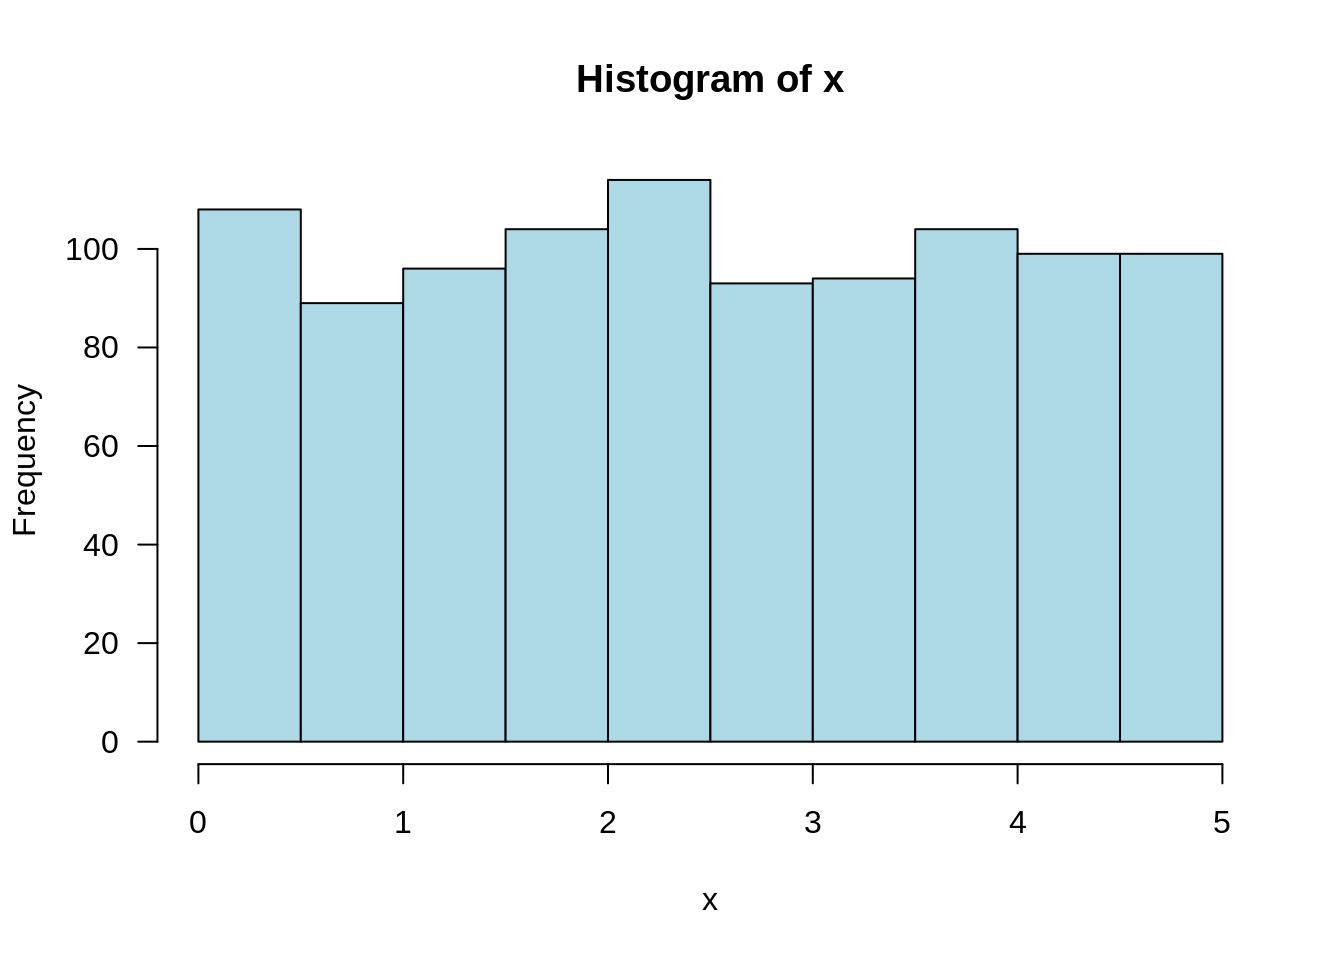
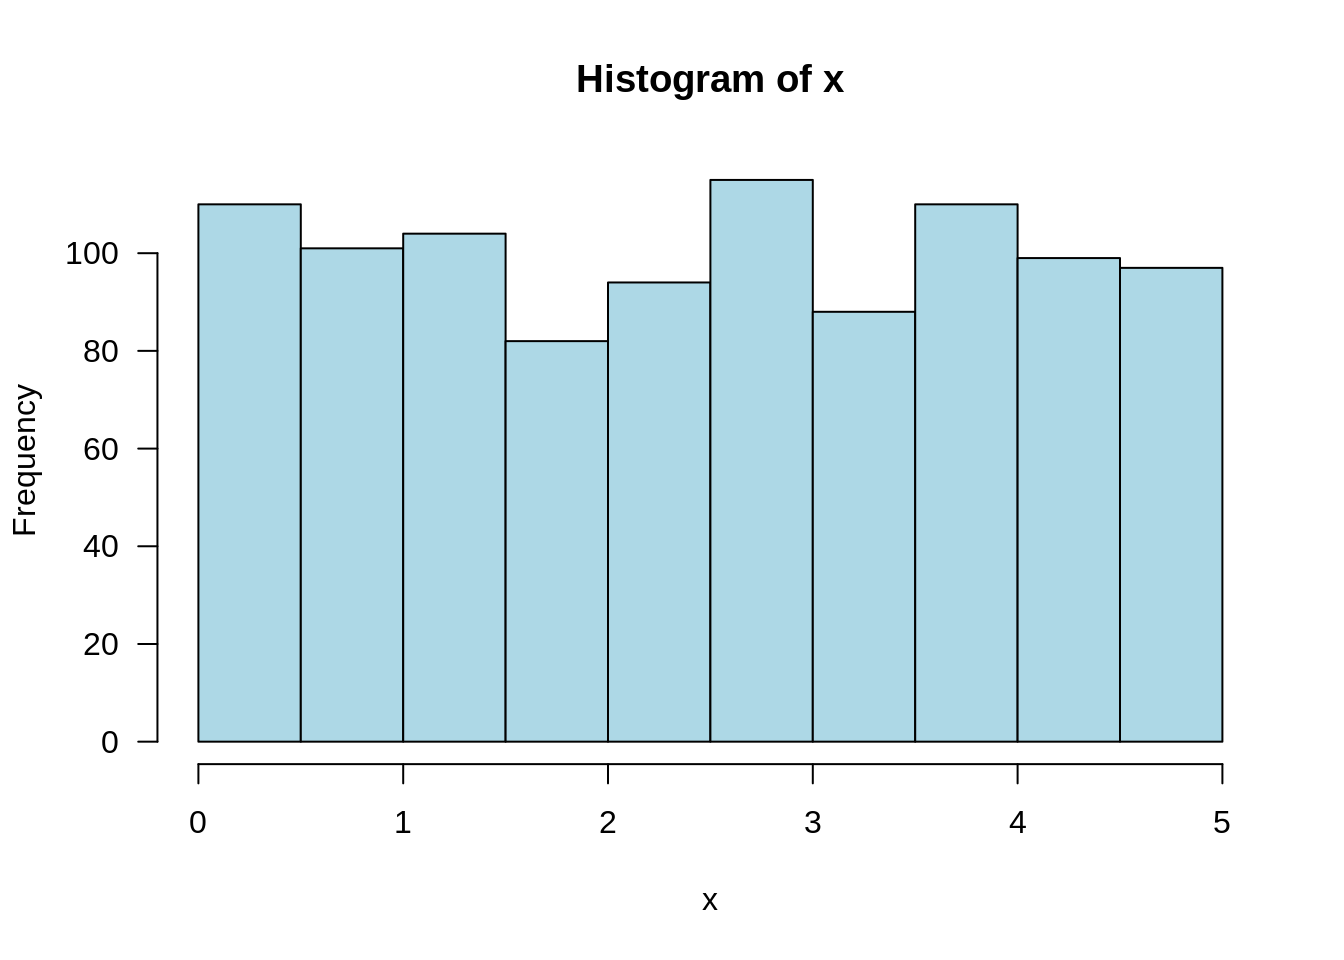
Deploying to gh-pages from @ jtr13/1201@d2c59172a6f13716efd7f6ed6490b5e46e10f73d 🚀

diff --git a/index.html b/index.html
@@ -172,15 +172,14 @@
 <p><a href=""><img src="images/R7.png" style="width:100.0%;height:100.0%"></a></p>
 <p><a href=""><img src="images/R8.png" style="width:100.0%;height:100.0%"></a></p>
 </div>
-<div id="reading-files" class="section level3">
-<h3>
-<span class="header-section-number">0.0.1</span> Reading files<a class="anchor" aria-label="anchor" href="#reading-files"><i class="fas fa-link"></i></a>
+<div id="reading-files" class="section level3 unnumbered">
+<h3>Reading files<a class="anchor" aria-label="anchor" href="#reading-files"><i class="fas fa-link"></i></a>
 </h3>
 <p>First, find out your working directory with:</p>
 <div class="sourceCode" id="cb13"><pre class="downlit sourceCode r">
 <code class="sourceCode R"><span class="fu"><a href="https://rdrr.io/r/base/getwd.html">getwd</a></span><span class="op">(</span><span class="op">)</span></code></pre></div>
 <p><code>[1] "/Users/joycerobbins/1201"</code></p>
-<p>Next, move the file that you wish to read into that directory.</p>
+<p>Next, move the file that you wish to read into that directory. <em>One of the most common problems in reading in files is not having the file in the right place.</em></p>
 <p><code>.rda</code> files</p>
 <div class="sourceCode" id="cb14"><pre class="downlit sourceCode r">
 <code class="sourceCode R"><span class="fu"><a href="https://rdrr.io/r/base/load.html">load</a></span><span class="op">(</span><span class="st">"ex01-14.rda"</span><span class="op">)</span></code></pre></div>
@@ -267,7 +266,7 @@
 <a class="nav-link" href="#creating-graphs-saving-your-work">Creating Graphs, Saving your work</a><ul class="nav navbar-nav">
 <li><a class="nav-link" href="#saving-code-as-an-.r-file">Saving code as an .R file</a></li>
 <li><a class="nav-link" href="#convert-.r-file-to-.html">Convert .R file to .html</a></li>
-<li><a class="nav-link" href="#reading-files"><span class="header-section-number">0.0.1</span> Reading files</a></li>
+<li><a class="nav-link" href="#reading-files">Reading files</a></li>
 </ul>
 </li>
 <li><a class="nav-link" href="#contact">Contact</a></li>

diff --git a/ch.-4-continuous-random-variables-and-probability-distributions.html b/ch.-4-continuous-random-variables-and-probability-distributions.html
@@ -76,12 +76,12 @@
 <p><span class="math inline">\(f(x) = .2\)</span> for <span class="math inline">\(0 \leq x \leq 5\)</span>, 0 otherwise.</p>
 <div class="sourceCode" id="cb152"><pre class="downlit sourceCode r">
 <code class="sourceCode R"><span class="fu"><a href="https://rdrr.io/r/stats/Uniform.html">runif</a></span><span class="op">(</span>n <span class="op">=</span> <span class="fl">1</span>, min <span class="op">=</span> <span class="fl">0</span>, max <span class="op">=</span> <span class="fl">5</span><span class="op">)</span></code></pre></div>
-<pre><code>## [1] 3.156383</code></pre>
+<pre><code>## [1] 0.6580953</code></pre>
 <p>Take the average of 1000 picks:</p>
 <div class="sourceCode" id="cb154"><pre class="downlit sourceCode r">
 <code class="sourceCode R"><span class="va">x</span> <span class="op">&lt;-</span> <span class="fu"><a href="https://rdrr.io/r/stats/Uniform.html">runif</a></span><span class="op">(</span>n <span class="op">=</span> <span class="fl">1000</span>, min <span class="op">=</span> <span class="fl">0</span>, max <span class="op">=</span> <span class="fl">5</span><span class="op">)</span>
 <span class="fu"><a href="https://rdrr.io/r/base/mean.html">mean</a></span><span class="op">(</span><span class="va">x</span><span class="op">)</span></code></pre></div>
-<pre><code>## [1] 2.495715</code></pre>
+<pre><code>## [1] 2.486822</code></pre>
 <p>Draw a histogram of the 1000 picks:</p>
 <div class="sourceCode" id="cb156"><pre class="downlit sourceCode r">
 <code class="sourceCode R"><span class="fu"><a href="https://rdrr.io/r/graphics/hist.html">hist</a></span><span class="op">(</span><span class="va">x</span>, las <span class="op">=</span> <span class="fl">1</span>, col <span class="op">=</span> <span class="st">"lightblue"</span><span class="op">)</span></code></pre></div>
